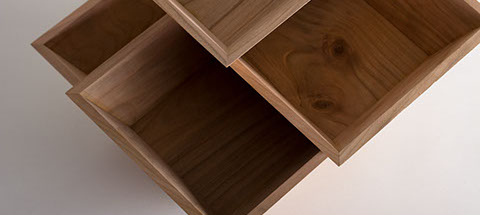
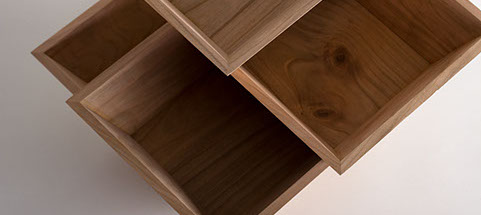
Bug fix bowl pictures 23
changed pictures back

diff --git a/portfolio.html b/portfolio.html
@@ -126,7 +126,7 @@ if(typeof Muse == "undefined") window.Muse = {}; window.Muse.assets = {"required
          </div>
          <div class="clearfix colelem" id="pu7179"><!-- group -->
           <div class="clip_frame grpelem" id="u7179"><!-- image -->
-           <img class="block temp_no_img_src" id="u7179_img" data-orig-src="images/2016_finn_diebold_sd_formstudien%20(2)-crop-u7179.jpg?crc=3966406564" alt="" data-image-width="481" data-image-height="215" src="images/blank.gif?crc=4208392903"/>
+           <img class="block temp_no_img_src" id="u7179_img" data-orig-src="images/_mg_8749-crop-u7179.jpg?crc=340334223" alt="" data-image-width="481" data-image-height="215" src="images/blank.gif?crc=4208392903"/>
           </div>
           <div class="clip_frame grpelem" id="u7187"><!-- image -->
            <img class="block temp_no_img_src" id="u7187_img" data-orig-src="images/2016_finn_diebold_sd_formstudien%20(3)-crop-u7187.jpg?crc=141134291" alt="" data-image-width="478" data-image-height="215" src="images/blank.gif?crc=4208392903"/>
@@ -294,7 +294,7 @@ if(typeof Muse == "undefined") window.Muse = {}; window.Muse.assets = {"required
          </div>
          <div class="clearfix colelem temp_no_id" data-orig-id="pu7179"><!-- group -->
           <div class="clip_frame grpelem temp_no_id" data-orig-id="u7179"><!-- image -->
-           <img class="block temp_no_id temp_no_img_src" data-orig-src="images/2016_finn_diebold_sd_formstudien%20(2)-crop-u71792.jpg?crc=4290586296" alt="" data-image-width="328" data-image-height="147" data-orig-id="u7179_img" src="images/blank.gif?crc=4208392903"/>
+           <img class="block temp_no_id temp_no_img_src" data-orig-src="images/_mg_8749-crop-u71792.jpg?crc=126945292" alt="" data-image-width="328" data-image-height="147" data-orig-id="u7179_img" src="images/blank.gif?crc=4208392903"/>
           </div>
           <div class="clip_frame grpelem temp_no_id" data-orig-id="u7187"><!-- image -->
            <img class="block temp_no_id temp_no_img_src" data-orig-src="images/2016_finn_diebold_sd_formstudien%20(3)-crop-u71872.jpg?crc=3888809497" alt="" data-image-width="327" data-image-height="147" data-orig-id="u7187_img" src="images/blank.gif?crc=4208392903"/>
